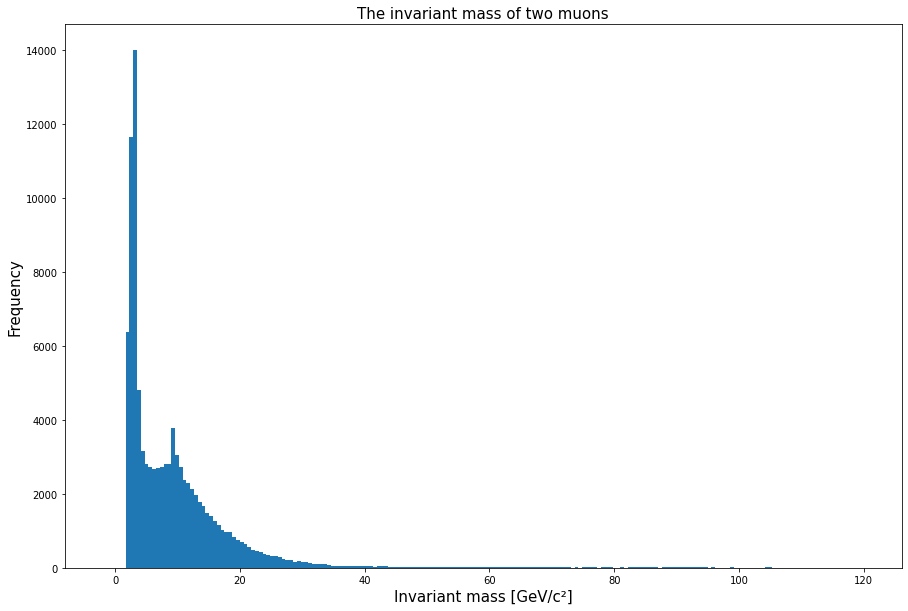
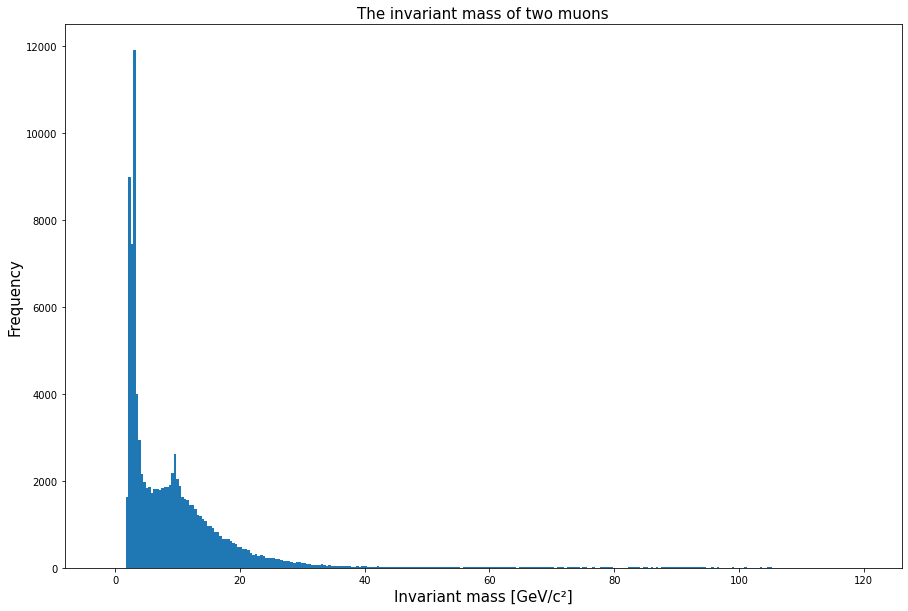
deploy: 91d72e60c85540d6cf45f04bfb287e71634b7067

diff --git a/searchindex.js b/searchindex.js
@@ -1,1 +1,1 @@
-Search.setIndex({docnames:["exercises/Hunting-the-Higgs-4leptons","exercises/jupyter-notebook-tutorial","exercises/teacher-workshop","intro"],envversion:{"sphinx.domains.c":2,"sphinx.domains.changeset":1,"sphinx.domains.citation":1,"sphinx.domains.cpp":5,"sphinx.domains.index":1,"sphinx.domains.javascript":2,"sphinx.domains.math":2,"sphinx.domains.python":3,"sphinx.domains.rst":2,"sphinx.domains.std":2,"sphinx.ext.intersphinx":1,sphinx:56},filenames:["exercises/Hunting-the-Higgs-4leptons.ipynb","exercises/jupyter-notebook-tutorial.ipynb","exercises/teacher-workshop.md","intro.md"],objects:{},objnames:{},objtypes:{},terms:{"0":[0,1],"00":1,"000501845":0,"000546162":0,"000590479":0,"000797085":0,"000885718":0,"00122527":0,"00340992":0,"00358719":0,"00419265":0,"00450225":0,"00465086":0,"00630364":0,"00794274":0,"0080008":0,"00801578":0,"00808944":0,"00950757":0,"01":1,"0108945":0,"01250":0,"0130648":0,"0138906":0,"0139526":0,"0163568":0,"0178":0,"02":1,"02072":0,"02085":1,"02240":1,"0233832":0,"024390":1,"0247":0,"0284":0,"028600":1,"032018":1,"032390":1,"0334813":0,"033950":1,"03502":1,"0374193":0,"0427229":0,"048740":0,"05":[0,1],"053890":1,"05681":0,"0598":0,"060420":1,"060690":1,"06454":0,"065820":1,"0677":0,"06840":0,"07049":1,"0738129":0,"07882":0,"08":1,"0804":0,"08338":1,"0837":0,"09095":1,"09128":1,"09683":0,"0987":0,"09888":0,"1":0,"10":[0,1],"100000":1,"1018":0,"102":1,"1091":1,"10974":0,"11":[0,1],"110":0,"11094":1,"112739":0,"11413":1,"114902683":1,"119":0,"11929":1,"12":[0,1],"120":1,"122":1,"123":1,"124":1,"125":[0,1],"126":1,"13":[0,1],"130388":0,"130770":0,"13282":0,"13298":1,"13324":0,"134075":0,"1352":0,"1382":1,"1392":0,"14":0,"140640":1,"14080":0,"14400":0,"144435":1,"146510":1,"146511":1,"148624":1,"15":[0,1],"15066":1,"1510":0,"151330e":1,"15410":1,"155005":0,"16":[0,1],"16082":1,"1611":0,"162":0,"165":0,"166512":0,"167282":0,"17":[0,1],"17082":0,"171091":0,"17124":1,"17188":0,"172952":0,"173657":0,"176830":1,"177398":0,"18":[0,1],"181":0,"181215":0,"187670":1,"1877":0,"189034":1,"19":0,"19117":1,"19304":0,"193263":0,"19704":1,"199319":1,"199699":1,"1_x":1,"1_y":1,"1_z":1,"2":[0,1],"20":[0,1],"200":1,"2006":1,"2011":0,"2012":0,"201602":1,"2017":0,"201850e":1,"202087":1,"203887":1,"203894":1,"2049":0,"20755":1,"209126492":1,"209181268":1,"209199660":1,"209209004":1,"209458092":1,"20978":0,"21":[0,1],"21620":0,"22":[0,1],"22007":0,"220450":1,"22260":1,"223630":0,"22890":0,"22967":1,"23":[0,1],"232":0,"234060":1,"235":0,"23602":1,"237880":1,"24":0,"2436":0,"245870e":1,"246340":1,"246510":1,"248771":1,"249320":1,"25":0,"250232":1,"250438":1,"25341481":1,"25343052":1,"25390065":1,"25391068":1,"25489877":1,"256384":0,"257161":0,"26":0,"2600":0,"261020":1,"26420":1,"26690":1,"267800":1,"27":0,"27240":0,"273271":1,"27430":0,"27485":1,"276090":0,"276360":1,"276874":1,"27942":0,"28":0,"28190":0,"2866":0,"28931":1,"28995":1,"29":[0,1],"2900":0,"29029":0,"29110":1,"29272":1,"29421":1,"294760":1,"29831":0,"2_x":1,"2_y":1,"2_z":1,"2e2mu_2011":0,"2e2mu_2012":0,"3":0,"30":0,"300":1,"30081":0,"303":1,"305880":0,"30672":0,"306925":0,"3075":0,"31":[0,1],"31050":0,"31349":1,"31402":0,"31425":0,"314620":1,"3154":0,"316533":0,"3199":0,"32":0,"320370":0,"3208":0,"32171":1,"32840":0,"32913":0,"33":0,"33390":1,"33410":0,"33412":1,"33561":0,"336259924":1,"337493970":0,"339000":1,"34442568":0,"344530":1,"34670":0,"34856":0,"34910":0,"35":0,"3524":0,"352990":1,"3541":0,"35470":0,"354797":0,"35650":0,"358470":0,"35900":1,"36":0,"360030":1,"362599e":1,"36442":0,"36681":0,"36750":0,"37":0,"3758":0,"381397":1,"3858":0,"38618":0,"3874":0,"38742":0,"38757":0,"3881":0,"39":0,"39050":1,"390686":1,"39256":0,"394420":0,"39538":1,"399700":1,"4":0,"40":1,"407975":0,"408010":1,"4088":0,"410910e":1,"414110":1,"41465":0,"41572":0,"418519":0,"41922":0,"42070":0,"425020":1,"42899":0,"43":0,"430085":1,"4314":1,"43168e":0,"4333":0,"43461":1,"43472":0,"44":1,"4409":1,"44166176":0,"444405":1,"44846":0,"45":[0,1],"450186":0,"45026":0,"4510":0,"45141":0,"4517":0,"45350":1,"456026":1,"459977":1,"46":1,"46080":1,"462830":1,"463510":0,"464500":1,"46530":0,"46720":1,"47328":0,"473667":1,"474752":0,"47860":1,"49":0,"49390":0,"4999":0,"4e_2011":0,"4e_2012":0,"4l":0,"4mu_2011":0,"4mu_2012":0,"5":[0,1],"50":0,"50412":0,"504613":0,"5056":0,"51":0,"51464":0,"51920":1,"52":0,"5205":0,"5209":1,"52260":1,"524410":1,"52511":1,"53":1,"53530":0,"538835":0,"53900":1,"54":0,"54130":1,"54593":1,"55":1,"5500":0,"550160":1,"5513":0,"559839432":0,"561945":1,"5720":0,"57354":0,"5743":0,"58":[0,1],"5813":0,"582250":1,"58321":0,"58406":1,"584812":1,"58568":1,"585680e":1,"586979":1,"58934":0,"59462":1,"6":[0,1],"60":1,"6038":1,"60481":0,"605505":1,"608720":1,"62":0,"622542":1,"62525":1,"6280":0,"63":0,"631640":1,"64":1,"64139":1,"641436592":1,"642300":1,"64276":0,"64596":0,"646050":1,"646960":1,"648352":0,"64960":1,"650821":1,"65464":0,"65745":1,"6628":0,"665790":1,"667150":0,"67":0,"67359":1,"67407":1,"67420":1,"676920":0,"678600":1,"68":0,"683619":0,"685250":1,"68620":1,"688901524":1,"69":0,"69105221":0,"691479":1,"6940":1,"698872":1,"7":[0,1],"70":0,"70222":1,"70372":1,"704971":1,"709440":0,"709665":1,"7100":0,"71127":1,"71292":1,"71436":1,"71517":0,"715610":0,"71670":1,"72":0,"72188":1,"72383":0,"727298":0,"72950":1,"73":1,"7350":0,"736670e":1,"739009":1,"740312":1,"7413":0,"7483":0,"7489":1,"749418":1,"751290":1,"7513":0,"7552":0,"76":1,"76010":0,"7605":0,"761387":1,"7631":0,"767963":0,"7696":0,"77":1,"7726":0,"77350":1,"776915":1,"778710":1,"780600":0,"78208":1,"79":0,"79377":0,"797901":1,"8":[0,1],"800788":1,"80272":0,"805550":1,"815133":1,"815527":1,"81797":0,"81862":1,"81952":1,"81970":0,"819760":1,"8214":0,"82820":1,"830071":0,"83630":0,"83735":0,"8382":0,"83870":0,"839775":0,"8417":0,"85":0,"85313":0,"85330":0,"85760":0,"85836":1,"86":0,"860380e":1,"86337e":0,"864420":1,"86520":0,"86720":1,"869450":1,"87":0,"87010":0,"87193":0,"873040":0,"873400":1,"87824":0,"88":0,"8800":0,"885440":1,"88580":1,"887188":0,"8875":0,"888141":1,"88830":1,"88960":1,"89":0,"899132":1,"9":[0,1],"90":0,"90202":1,"9087":0,"91":0,"914730":1,"9170":0,"917130":1,"918146":0,"91832":1,"92":0,"923352992":1,"9290":0,"9369":1,"93837":0,"94041":1,"94072":1,"94400":0,"944299":0,"945537":1,"948222":0,"94839":1,"95083":0,"9550":1,"95770":1,"966510":0,"967021":0,"9677":0,"97":0,"971505":0,"9750":0,"9753":0,"97880":1,"979340":0,"979959":1,"9826":0,"98280":0,"98300":1,"98817":1,"989974":0,"991560":1,"994575":1,"996990e":1,"9978":0,"99995":1,"99996":1,"99997":1,"99998":1,"99999":1,"c\u00b2":1,"case":1,"default":3,"do":[0,1],"final":0,"function":1,"import":[0,1],"new":0,"short":1,"try":[0,1],A:1,As:[0,1],For:0,If:[0,1,3],In:1,It:0,On:1,The:[0,1],There:0,These:1,abbrev:1,about:0,abov:1,acceler:0,accord:0,achim:0,activ:0,actual:0,adapt:0,add:0,afiq:0,after:1,again:[0,1],aizuddin:0,align:0,all:0,alpha:0,alreadi:[0,1],also:1,an:3,anaconda:1,analysi:[0,1],analyz:1,answer:1,anti:0,anuar:0,anyth:[0,1],api:1,appear:1,ar:[0,1],area:0,aris:0,around:0,arr1:1,arr2:1,arrai:[0,1],assumpt:0,avail:0,ax:1,b:0,background:0,bar:0,base:[0,3],basic:0,been:[0,1],befor:1,begin:1,below:[1,3],better:1,between:1,bigger:1,bin:[0,1],black:0,bonu:0,boson:0,bottom:0,bracket:1,bring:0,browser:1,button:1,call:1,can:[0,1,3],carlo:0,center:0,cern:[0,1],certain:0,certainli:0,ch:[0,1],challeng:1,chang:1,check:1,checkpoint:1,choos:3,chose:1,clash:0,clearli:0,clever:0,click:[1,3],cm:0,code:0,collect:1,color:0,column:1,com:0,come:[0,1],comma:1,command:1,comment:1,common:0,compar:0,comparison:0,complex:1,compris:0,comput:1,concat:0,confirm:0,consist:1,contain:[0,1,3],content:[0,3],continu:[0,1],contribut:0,control:1,corner:3,correl:0,could:0,cours:0,creat:0,criteria:1,cross:0,csv:[0,1],cycl:0,dame:0,data:[0,3],data_bar:0,decai:0,defin:1,delet:1,determin:1,did:1,differ:[0,1],dimuon:1,diphoton:1,directli:1,discov:0,displai:[0,3],distribut:0,document:1,doe:0,doesn:1,doi:0,domin:0,don:1,done:0,dormant:1,doubl:1,down:1,download:1,drop:1,dtype:1,dy:0,dy_bar:0,e1:[0,1],e2:[0,1],e3:0,e4:0,e:1,e_1:1,e_2:1,each:1,earlier:1,easi:1,edgecolor:0,edit:1,educ:0,effici:1,electron:0,element:1,elus:0,en_phys:0,end:0,enlighten:0,enter:1,entir:0,errorbar:0,eta1:[0,1],eta2:[0,1],eta3:0,eta4:0,etc:[0,1],event:[0,1],everi:1,everyth:1,exampl:1,exclud:1,execut:1,exercis:3,exist:0,expect:0,experi:0,expir:1,explain:0,explor:0,extra:1,fairli:0,far:0,fb:0,fig:1,figsiz:[0,1],figur:[0,1],file:1,find:1,first:[0,1],five:1,float64:1,follow:[0,1,3],fontsiz:[0,1],forc:0,form:1,found:[0,3],four:0,fourlep:0,frequenc:1,from:[0,3],further:0,g:[0,1],gamma:0,geiser:0,get:0,gev:[0,1],gg:1,githubusercont:0,give:[0,1],given:1,go:[0,1],goe:1,good:1,grai:0,graph:0,great:1,gt:1,guess:0,guid:0,h:0,ha:[0,1],had:[0,1],half:0,happen:[0,1],have:[0,1],head:[0,1],heavier:0,hei:1,helsinki:0,here:0,highlight:1,hist:[0,1],histogram:0,how:[0,1],html:1,http:[0,1],hzz:0,hzz_bar:0,i:0,imag:[1,3],includ:1,inform:0,inlin:0,insid:1,instal:1,instead:0,institut:0,instruct:[1,3],interact:1,interest:1,internet:1,invari:[0,1],invariant_mass:1,involv:0,irreduc:0,its:1,jkb8:0,jomhari:0,just:[0,1],kind:0,know:1,l:0,label:0,later:0,learn:1,left:[1,3],legend:0,length:0,lepton:0,let:[0,1],like:0,line:[0,1],linestyl:0,linewidth:0,link:1,loc:1,local:1,log:1,look:[0,1],lot:0,luminos:0,m:[0,1],m_:0,m_hist:0,mac:1,made:0,main:0,mainli:0,make:[0,1],mani:0,markdown:1,marker:0,mass:[0,1],mass_squar:1,mass_squared_po:1,materi:3,mathemat:1,matplotlib:[0,1],matric:1,matrix:1,max_column:0,mccaulei:0,mean:1,meaning:0,measur:0,menu:1,method:[0,1],might:[0,3],minut:[1,3],mode:3,model:0,modifi:3,modul:1,mont:0,more:0,most:[0,1],move:1,much:0,muon:[0,1],must:1,mz1:0,mz2:0,n:0,name:1,navig:1,nbin:0,need:1,newli:1,nice:1,nobel:0,nois:0,none:0,note:[1,3],notebook:0,notr:0,now:[0,1,3],np:[0,1],number:[0,1],numer:[0,1],numpi:[0,1],nur:0,o:0,observ:0,occas:1,off:0,often:1,onc:1,one:[0,1],ones:0,onli:[0,1],open:[0,3],opendata:[0,1],option:0,order:1,org:1,origin:0,other:0,ought:0,our:[0,1],ourselv:1,out:1,over:0,own:1,p_1:1,p_2:1,p_:1,packag:1,page:3,pair:0,panda:[0,1],particl:[0,1,3],pd:[0,1],peitsa:0,perhap:0,phi1:[0,1],phi2:[0,1],phi3:0,phi4:0,physic:[0,3],physicist:0,pid1:0,pid2:0,pid3:0,pid4:0,platform:1,plt:[0,1],point:0,portal:0,practic:1,precis:0,present:0,pretti:0,previou:0,print:1,prize:0,process:[0,1],produc:0,program:1,progress:1,properti:0,pt1:[0,1],pt2:[0,1],pt3:0,pt4:0,publicli:0,purpos:0,px1:[0,1],px2:[0,1],px3:0,px4:0,py1:[0,1],py2:[0,1],py3:0,py4:0,pyplot:[0,1],pyplot_api:1,pz1:[0,1],pz2:[0,1],pz3:0,pz4:0,q1:[0,1],q2:[0,1],q3:0,q4:0,quark:0,question:0,quit:0,r:0,ran:1,random:0,rang:[0,1],raw:0,re:1,read_csv:[0,1],readi:0,real:[0,1],record:[0,1],regard:0,region:0,relat:3,rememb:1,requir:0,restart:1,result:[0,1],review:1,right:3,rightarrow:0,rmax:0,rmin:0,rocket:3,root:1,rough:0,roughli:0,row:1,rr42:0,run:[0,1],s:[0,1],sai:0,sake:0,sampl:0,save:1,scale:1,scienc:0,search:0,second:1,section:0,see:[0,1,3],seem:0,select:1,sens:[0,1],separ:1,serv:0,session:1,set:[0,1],sever:3,shape:0,shortcut:1,should:[0,1],show:[0,1],shown:0,side:[1,3],sift:0,sign:1,simpli:0,simul:0,sinc:1,singular:0,site:3,small:0,so:[0,1],some:0,someth:0,somewhat:0,sophist:0,sorri:1,space:3,specif:1,sqrt:[0,1],squar:1,stack:0,standard:0,state:0,still:[0,1],student:1,t:[0,1],tabl:3,take:[0,1,3],teach:3,tell:[0,1],ten:1,tev:0,thei:0,them:[0,1],theoret:0,theori:0,thi:[0,3],those:0,through:0,time:[0,1],titl:[0,1],togeth:0,tom:0,too:0,tool:1,toolbar:1,top:[0,1,3],ttbar:0,ttbar_bar:0,two:[0,1],two_muon:1,type:1,unfinish:1,uniqu:1,univers:0,up:[0,1],us:[0,1,3],valu:[0,1],vari:0,vector:1,vector_sum:1,veri:[0,1],vete:0,via:0,virtual:1,w:0,wa:0,wai:[0,1],want:1,we:[0,1],weight:0,well:0,what:0,when:[1,3],where:1,whether:1,which:[0,1],width:0,window:1,wish:3,work:[0,1],would:0,write:1,x:0,xerr:0,xlabel:[0,1],xlim:0,yerr:0,ylabel:[0,1],ylim:0,you:[0,1,3],your:[0,1],your_valu:1,yourself:3,yscale:1,z:0,zulaiha:0,zz:0,zz_bar:0},titles:["Higgs hunting - an example of scientific research","What is the Jupyter Notebook?","CERN Teacher workshop","Welcome"],titleterms:{"1":1,"3":1,"4":1,"new":1,ad:1,add:1,addit:1,an:[0,1],anoth:1,arbitrari:1,b:1,binder:3,calcul:1,cell:1,cern:2,choos:1,cm:1,code:1,data:1,dataset:1,describ:1,exampl:0,exercis:1,experi:1,from:1,higg:0,histogram:1,hunt:0,jupyt:1,launch:3,librari:1,materi:1,modifi:1,notebook:[1,3],open:1,plot:1,python:1,read:1,research:0,scientif:0,sentenc:1,similar:1,sum:1,teacher:2,text:1,thi:1,todai:1,variabl:1,weather:1,welcom:3,what:1,workshop:2}})
+Search.setIndex({docnames:["exercises/Hunting-the-Higgs-4leptons","exercises/jupyter-notebook-tutorial","exercises/teacher-workshop","intro"],envversion:{"sphinx.domains.c":2,"sphinx.domains.changeset":1,"sphinx.domains.citation":1,"sphinx.domains.cpp":5,"sphinx.domains.index":1,"sphinx.domains.javascript":2,"sphinx.domains.math":2,"sphinx.domains.python":3,"sphinx.domains.rst":2,"sphinx.domains.std":2,"sphinx.ext.intersphinx":1,sphinx:56},filenames:["exercises/Hunting-the-Higgs-4leptons.ipynb","exercises/jupyter-notebook-tutorial.ipynb","exercises/teacher-workshop.md","intro.md"],objects:{},objnames:{},objtypes:{},terms:{"0":[0,1],"00":1,"000501845":0,"000546162":0,"000590479":0,"000797085":0,"000885718":0,"00122527":0,"00340992":0,"00358719":0,"00419265":0,"00450225":0,"00465086":0,"00630364":0,"00794274":0,"0080008":0,"00801578":0,"00808944":0,"00950757":0,"01":1,"0108945":0,"01250":0,"0130648":0,"0138906":0,"0139526":0,"0163568":0,"0178":0,"02":1,"02072":0,"0233832":0,"02439":1,"0247":0,"0284":0,"032018":1,"032390":1,"0334813":0,"033950":1,"03502":1,"0374193":0,"0427229":0,"048740":0,"05":[0,1],"05681":0,"0598":0,"060420":1,"06069":1,"06454":0,"065820":1,"0677":0,"06840":0,"0738129":0,"07882":0,"08":1,"0804":0,"08338":1,"0837":0,"09095":1,"09683":0,"0987":0,"09888":0,"1":0,"10":[0,1],"1018":0,"102":1,"1091":1,"10974":0,"11":[0,1],"110":0,"112739":0,"114902683":1,"119":0,"11929":1,"12":[0,1],"120":1,"122":1,"123":1,"124":1,"125":[0,1],"126":1,"13":[0,1],"130388":0,"130770":0,"13282":0,"13324":0,"134075":0,"1352":0,"1382":1,"1392":0,"14":0,"14080":0,"14400":0,"144435":1,"146511":1,"148624":1,"15":[0,1],"1510":0,"151330e":1,"15410":1,"155005":0,"16":[0,1],"16082":1,"1611":0,"162":0,"165":0,"166512":0,"167282":0,"17":0,"17082":0,"171091":0,"17188":0,"172952":0,"173657":0,"177398":0,"18":[0,1],"181":0,"181215":0,"1877":0,"19":0,"19304":0,"193263":0,"19704":1,"199319":1,"199699":1,"1_x":1,"1_y":1,"1_z":1,"2":0,"20":[0,1],"2006":1,"2011":0,"2012":0,"201602":1,"2017":0,"201850e":1,"202087":1,"203887":1,"203894":1,"2049":0,"20755":1,"20978":0,"21":[0,1],"21620":0,"22":0,"22007":0,"223630":0,"22890":0,"23":[0,1],"232":0,"234060":1,"235":0,"23602":1,"24":0,"2436":0,"245870e":1,"246340":1,"246510":1,"248771":1,"249320":1,"25":0,"250438":1,"25341481":1,"25343052":1,"25390065":1,"25391068":1,"25489877":1,"256384":0,"257161":0,"26":0,"2600":0,"261020":1,"27":0,"27240":0,"273271":1,"27430":0,"27485":1,"276090":0,"276360":1,"276874":1,"27942":0,"28":0,"28190":0,"2866":0,"28931":1,"29":0,"2900":0,"29029":0,"29476":1,"29831":0,"2_x":1,"2_y":1,"2_z":1,"2e2mu_2011":0,"2e2mu_2012":0,"3":0,"30":0,"300":1,"30081":0,"303":1,"305880":0,"30672":0,"306925":0,"3075":0,"31":0,"31050":0,"31349":1,"31402":0,"31425":0,"314620":1,"3154":0,"316533":0,"3199":0,"32":0,"320370":0,"3208":0,"32840":0,"32913":0,"33":0,"33390":1,"33410":0,"33561":0,"336259924":1,"337493970":0,"34442568":0,"34670":0,"34856":0,"34910":0,"35":0,"3524":0,"352990":1,"3541":0,"35470":0,"354797":0,"35650":0,"358470":0,"35900":1,"36":0,"362599e":1,"36442":0,"36681":0,"36750":0,"37":0,"3758":0,"381397":1,"3858":0,"38618":0,"3874":0,"38742":0,"38757":0,"3881":0,"39":0,"39050":1,"390686":1,"39256":0,"394420":0,"4":0,"40":1,"407975":0,"408010":1,"4088":0,"410910e":1,"414110":1,"41465":0,"41572":0,"418519":0,"41922":0,"42070":0,"425020":1,"42899":0,"43":0,"4314":1,"43168e":0,"4333":0,"43461":1,"43472":0,"44":1,"4409":1,"44166176":0,"444405":1,"44846":0,"45":[0,1],"450186":0,"45026":0,"4510":0,"45141":0,"4517":0,"456026":1,"459977":1,"46":1,"462830":1,"463510":0,"46530":0,"46720":1,"47328":0,"473667":1,"474752":0,"49":0,"49390":0,"4999":0,"4e_2011":0,"4e_2012":0,"4l":0,"4mu_2011":0,"4mu_2012":0,"5":[0,1],"50":0,"50412":0,"504613":0,"5056":0,"51":0,"51464":0,"51920":1,"52":0,"5205":0,"5209":1,"52260":1,"524410":1,"52511":1,"53":1,"53530":0,"538835":0,"53900":1,"54":0,"55":1,"5500":0,"55016":1,"5513":0,"559839432":0,"561945":1,"5720":0,"57354":0,"5743":0,"58":[0,1],"5813":0,"582250":1,"58321":0,"58406":1,"584812":1,"58568":1,"585680e":1,"586979":1,"58934":0,"59462":1,"6":[0,1],"60":1,"6038":1,"60481":0,"605505":1,"62":0,"622542":1,"62525":1,"6280":0,"63":0,"631640":1,"64":1,"641436592":1,"642300":1,"64276":0,"64596":0,"64696":1,"648352":0,"650821":1,"65464":0,"65745":1,"6628":0,"667150":0,"67":0,"67359":1,"67407":1,"676920":0,"68":0,"683619":0,"688901524":1,"69":0,"69105221":0,"691479":1,"6940":1,"698872":1,"7":[0,1],"70":0,"70222":1,"704971":1,"709440":0,"709665":1,"7100":0,"71127":1,"71517":0,"715610":0,"71670":1,"72":0,"72383":0,"727298":0,"72950":1,"73":1,"7350":0,"736670e":1,"7413":0,"7483":0,"7489":1,"751290":1,"7513":0,"7552":0,"76":1,"76010":0,"7605":0,"7631":0,"767963":0,"7696":0,"77":1,"7726":0,"77350":1,"776915":1,"780600":0,"78208":1,"79":0,"79377":0,"797901":1,"8":[0,1],"800788":1,"80272":0,"815133":1,"815527":1,"81797":0,"81862":1,"81970":0,"819760":1,"8214":0,"82820":1,"830071":0,"83630":0,"83735":0,"8382":0,"83870":0,"839775":0,"8417":0,"85":0,"85313":0,"85330":0,"85760":0,"85836":1,"86":0,"860380e":1,"86337e":0,"864420":1,"86520":0,"87":0,"87010":0,"87193":0,"873040":0,"87824":0,"88":0,"8800":0,"88580":1,"887188":0,"8875":0,"88830":1,"89":0,"899132":1,"9":[0,1],"90":0,"90202":1,"9087":0,"91":0,"9170":0,"918146":0,"92":0,"923352992":1,"9290":0,"9369":1,"93837":0,"94041":1,"94072":1,"94400":0,"944299":0,"945537":1,"948222":0,"94839":1,"95083":0,"9550":1,"95770":1,"966510":0,"967021":0,"9677":0,"97":0,"971505":0,"9750":0,"9753":0,"979340":0,"979959":1,"9826":0,"98280":0,"98300":1,"989974":0,"996990e":1,"9978":0,"c\u00b2":1,"case":1,"default":3,"do":[0,1],"final":0,"function":1,"import":[0,1],"new":0,"short":1,"try":[0,1],A:1,As:[0,1],For:0,If:[0,1,3],In:1,It:0,On:1,The:[0,1],There:0,These:1,abbrev:1,about:0,abov:1,acceler:0,accord:0,achim:0,activ:0,actual:0,adapt:0,add:0,afiq:0,after:1,again:[0,1],aizuddin:0,align:0,all:0,alpha:0,alreadi:[0,1],also:1,an:3,anaconda:1,analysi:[0,1],analyz:1,answer:1,anti:0,anuar:0,anyth:[0,1],api:1,appear:1,ar:[0,1],area:0,aris:0,around:0,arr1:1,arr2:1,arrai:[0,1],assumpt:0,avail:0,ax:1,b:0,background:0,bar:0,base:[0,3],basic:0,been:[0,1],befor:1,begin:1,below:[1,3],better:1,between:1,bigger:1,bin:[0,1],black:0,bonu:0,boson:0,bottom:0,bracket:1,bring:0,browser:1,button:1,call:1,can:[0,1,3],carlo:0,center:0,cern:[0,1],certain:0,certainli:0,ch:[0,1],challeng:1,chang:1,check:1,checkpoint:1,choos:3,chose:1,clash:0,clearli:0,clever:0,click:[1,3],cm:0,code:0,collect:1,color:0,column:1,com:0,come:[0,1],comma:1,command:1,comment:1,common:0,compar:0,comparison:0,complex:1,compris:0,comput:1,concat:0,confirm:0,consist:1,contain:[0,1,3],content:[0,3],continu:[0,1],contribut:0,control:1,corner:3,correl:0,could:0,cours:0,creat:0,criteria:1,cross:0,csv:[0,1],cycl:0,dame:0,data:[0,3],data_bar:0,decai:0,defin:1,delet:1,determin:1,did:1,differ:[0,1],dimuon:1,diphoton:1,directli:1,discov:0,displai:[0,3],distribut:0,document:1,doe:0,doesn:1,doi:0,domin:0,don:1,done:0,dormant:1,doubl:1,down:1,download:1,drop:1,dtype:1,dy:0,dy_bar:0,e1:[0,1],e2:[0,1],e3:0,e4:0,e:1,e_1:1,e_2:1,each:1,earlier:1,easi:1,edgecolor:0,edit:1,educ:0,effici:1,electron:0,element:1,elus:0,en_phys:0,end:0,enlighten:0,enter:1,entir:0,errorbar:0,eta1:[0,1],eta2:[0,1],eta3:0,eta4:0,etc:[0,1],event:[0,1],everi:1,everyth:1,exampl:1,exclud:1,execut:1,exercis:3,exist:0,expect:0,experi:0,expir:1,explain:0,explor:0,extra:1,fairli:0,far:0,fb:0,fig:1,figsiz:[0,1],figur:[0,1],file:1,find:1,first:[0,1],five:1,float64:1,follow:[0,1,3],fontsiz:[0,1],forc:0,form:1,found:[0,3],four:0,fourlep:0,frequenc:1,from:[0,3],further:0,g:[0,1],gamma:0,geiser:0,get:0,gev:[0,1],gg:1,githubusercont:0,give:[0,1],given:1,go:[0,1],goe:1,good:1,grai:0,graph:0,great:1,gt:1,guess:0,guid:0,h:0,ha:[0,1],had:[0,1],half:0,happen:[0,1],have:[0,1],head:[0,1],heavier:0,hei:1,helsinki:0,here:0,highlight:1,hist:[0,1],histogram:0,how:[0,1],html:1,http:[0,1],hzz:0,hzz_bar:0,i:0,imag:[1,3],includ:1,inform:0,inlin:0,insid:1,instal:1,instead:0,institut:0,instruct:[1,3],interact:1,interest:1,internet:1,invari:[0,1],invariant_mass:1,involv:0,irreduc:0,its:1,jkb8:0,jomhari:0,just:[0,1],kind:0,know:1,l:0,label:0,later:0,learn:1,left:[1,3],legend:0,length:0,lepton:0,let:[0,1],like:0,line:[0,1],linestyl:0,linewidth:0,link:1,loc:1,local:1,log:1,look:[0,1],lot:0,luminos:0,m:[0,1],m_:0,m_hist:0,mac:1,made:0,main:0,mainli:0,make:[0,1],mani:0,markdown:1,marker:0,mass:[0,1],mass_squar:1,mass_squared_po:1,materi:3,mathemat:1,matplotlib:[0,1],matric:1,matrix:1,max_column:0,mccaulei:0,mean:1,meaning:0,measur:0,menu:1,method:[0,1],might:[0,3],minut:[1,3],mode:3,model:0,modifi:3,modul:1,mont:0,more:0,most:[0,1],move:1,much:0,muon:[0,1],must:1,mz1:0,mz2:0,n:0,name:1,navig:1,nbin:0,need:1,newli:1,nice:1,nobel:0,nois:0,none:0,note:[1,3],notebook:0,notr:0,now:[0,1,3],np:[0,1],number:[0,1],numer:[0,1],numpi:[0,1],nur:0,o:0,observ:0,occas:1,off:0,often:1,onc:1,one:[0,1],ones:0,onli:[0,1],open:[0,3],opendata:[0,1],option:0,order:1,org:1,origin:0,other:0,ought:0,our:[0,1],ourselv:1,out:1,over:0,own:1,p_1:1,p_2:1,p_:1,packag:1,page:3,pair:0,panda:[0,1],particl:[0,1,3],pd:[0,1],peitsa:0,perhap:0,phi1:[0,1],phi2:[0,1],phi3:0,phi4:0,physic:[0,3],physicist:0,pid1:0,pid2:0,pid3:0,pid4:0,platform:1,plt:[0,1],point:0,portal:0,practic:1,precis:0,present:0,pretti:0,previou:0,print:1,prize:0,process:[0,1],produc:0,program:1,progress:1,properti:0,pt1:[0,1],pt2:[0,1],pt3:0,pt4:0,publicli:0,purpos:0,px1:[0,1],px2:[0,1],px3:0,px4:0,py1:[0,1],py2:[0,1],py3:0,py4:0,pyplot:[0,1],pyplot_api:1,pz1:[0,1],pz2:[0,1],pz3:0,pz4:0,q1:[0,1],q2:[0,1],q3:0,q4:0,quark:0,question:0,quit:0,r:0,ran:1,random:0,rang:[0,1],raw:0,re:1,read_csv:[0,1],readi:0,real:[0,1],record:[0,1],regard:0,region:0,relat:3,rememb:1,requir:0,restart:1,result:[0,1],review:1,right:3,rightarrow:0,rmax:0,rmin:0,rocket:3,root:1,rough:0,roughli:0,row:1,rr42:0,run:[0,1],s:[0,1],sai:0,sake:0,sampl:0,save:1,scale:1,scienc:0,search:0,second:1,section:0,see:[0,1,3],seem:0,select:1,sens:[0,1],separ:1,serv:0,session:1,set:[0,1],sever:3,shape:0,shortcut:1,should:[0,1],show:[0,1],shown:0,side:[1,3],sift:0,sign:1,simpli:0,simul:0,sinc:1,singular:0,site:3,small:0,so:[0,1],some:0,someth:0,somewhat:0,sophist:0,sorri:1,space:3,specif:1,sqrt:[0,1],squar:1,stack:0,standard:0,state:0,still:[0,1],student:1,t:[0,1],tabl:3,take:[0,1,3],teach:3,tell:[0,1],ten:1,tev:0,thei:0,them:[0,1],theoret:0,theori:0,thi:[0,3],those:0,through:0,time:[0,1],titl:[0,1],togeth:0,tom:0,too:0,tool:1,toolbar:1,top:[0,1,3],ttbar:0,ttbar_bar:0,two:[0,1],two_muon:1,type:1,unfinish:1,uniqu:1,univers:0,up:[0,1],us:[0,1,3],valu:[0,1],vari:0,vector:1,vector_sum:1,veri:[0,1],vete:0,via:0,virtual:1,w:0,wa:0,wai:[0,1],want:1,we:[0,1],weight:0,well:0,what:0,when:[1,3],where:1,whether:1,which:[0,1],width:0,window:1,wish:3,work:[0,1],would:0,write:1,x:0,xerr:0,xlabel:[0,1],xlim:0,yerr:0,ylabel:[0,1],ylim:0,you:[0,1,3],your:[0,1],your_valu:1,yourself:3,yscale:1,z:0,zulaiha:0,zz:0,zz_bar:0},titles:["Higgs hunting - an example of scientific research","What is the Jupyter Notebook?","CERN Teacher workshop","Welcome"],titleterms:{"1":1,"2":1,"3":1,"4":1,"new":1,ad:1,add:1,addit:1,an:[0,1],anoth:1,arbitrari:1,b:1,binder:3,calcul:1,cell:1,cern:2,choos:1,cm:1,code:1,data:1,dataset:1,describ:1,exampl:0,exercis:1,experi:1,from:1,higg:0,histogram:1,hunt:0,jupyt:1,launch:3,librari:1,materi:1,modifi:1,notebook:[1,3],open:1,plot:1,python:1,read:1,research:0,scientif:0,sentenc:1,similar:1,sum:1,teacher:2,text:1,thi:1,todai:1,variabl:1,weather:1,welcom:3,what:1,workshop:2}})

diff --git a/exercises/jupyter-notebook-tutorial.html b/exercises/jupyter-notebook-tutorial.html
@@ -381,7 +381,7 @@ title="Print to PDF"
  </li>
  <li class="toc-h2 nav-item toc-entry">
   <a class="reference internal nav-link" href="#reading-data">
-   Reading data
+   2. Reading data
   </a>
   <ul class="nav section-nav flex-column">
    <li class="toc-h3 nav-item toc-entry">
@@ -444,7 +444,7 @@ title="Print to PDF"
  </li>
  <li class="toc-h2 nav-item toc-entry">
   <a class="reference internal nav-link" href="#reading-data">
-   Reading data
+   2. Reading data
   </a>
   <ul class="nav section-nav flex-column">
    <li class="toc-h3 nav-item toc-entry">
@@ -609,7 +609,7 @@ Vector sums:  [[12 13]
 </div>
 </section>
 <section id="reading-data">
-<h2>Reading data<a class="headerlink" href="#reading-data" title="Permalink to this headline">#</a></h2>
+<h2>2. Reading data<a class="headerlink" href="#reading-data" title="Permalink to this headline">#</a></h2>
 <p>You can import a dataset into a notebook with an open link. In order to read datasets we need the library pandas and the <strong>read_csv()</strong>-method. The CSV (comma-separated values) file type is a useful way for saving data into a text file. Using the <strong>head()</strong>-method we can look at the first five lines of the dataset.</p>
 <p>Let’s try this with <a class="reference external" href="http://opendata.cern.ch/">open data</a> from the CMS experiment at CERN.</p>
 <div class="cell docutils container">
@@ -772,7 +772,7 @@ Name: 1, dtype: float64
 <div class="cell docutils container">
 <div class="cell_input docutils container">
 <div class="highlight-ipython3 notranslate"><div class="highlight"><pre><span></span><span class="n">two_muons</span> <span class="o">=</span> <span class="n">pd</span><span class="o">.</span><span class="n">read_csv</span><span class="p">(</span><span class="s2">&quot;http://opendata.cern.ch/record/303/files/dimuon.csv&quot;</span><span class="p">)</span>
-<span class="n">two_muons</span>
+<span class="n">two_muons</span><span class="o">.</span><span class="n">head</span><span class="p">()</span>
 </pre></div>
 </div>
 </div>
@@ -832,7 +832,7 @@ Name: 1, dtype: float64
       <td>1.234060</td>
       <td>-1</td>
       <td>5.20755</td>
-      <td>-1.550160</td>
+      <td>-1.55016</td>
       <td>-1.819760</td>
       <td>4.62525</td>
       <td>2.39050</td>
@@ -855,7 +855,7 @@ Name: 1, dtype: float64
       <td>-0.456026</td>
       <td>-1</td>
       <td>10.72950</td>
-      <td>6.294760</td>
+      <td>6.29476</td>
       <td>-2.524410</td>
       <td>-8.31349</td>
       <td>6.78208</td>
@@ -878,7 +878,7 @@ Name: 1, dtype: float64
       <td>1.631640</td>
       <td>-1</td>
       <td>6.90202</td>
-      <td>-3.024390</td>
+      <td>-3.02439</td>
       <td>3.751290</td>
       <td>4.94041</td>
       <td>4.81862</td>
@@ -901,7 +901,7 @@ Name: 1, dtype: float64
       <td>0.390686</td>
       <td>1</td>
       <td>7.43461</td>
-      <td>-5.060690</td>
+      <td>-5.06069</td>
       <td>4.408010</td>
       <td>3.19704</td>
       <td>6.71127</td>
@@ -924,7 +924,7 @@ Name: 1, dtype: float64
       <td>0.144435</td>
       <td>-1</td>
       <td>9.27485</td>
-      <td>-3.646960</td>
+      <td>-3.64696</td>
       <td>-0.276874</td>
       <td>8.52260</td>
       <td>3.65745</td>
@@ -933,147 +933,8 @@ Name: 1, dtype: float64
       <td>1</td>
       <td>40.98300</td>
     </tr>
-    <tr>
-      <th>...</th>
-      <td>...</td>
-      <td>...</td>
-      <td>...</td>
-      <td>...</td>
-      <td>...</td>
-      <td>...</td>
-      <td>...</td>
-      <td>...</td>
-      <td>...</td>
-      <td>...</td>
-      <td>...</td>
-      <td>...</td>
-      <td>...</td>
-      <td>...</td>
-      <td>...</td>
-      <td>...</td>
-      <td>...</td>
-      <td>...</td>
-      <td>...</td>
-      <td>...</td>
-    </tr>
-    <tr>
-      <th>99995</th>
-      <td>GG</td>
-      <td>146510</td>
-      <td>209126492</td>
-      <td>17.86720</td>
-      <td>-2.053890</td>
-      <td>2.70372</td>
-      <td>17.54130</td>
-      <td>3.39538</td>
-      <td>2.344530</td>
-      <td>2.220450</td>
-      <td>1</td>
-      <td>16.26420</td>
-      <td>-3.914730</td>
-      <td>-12.028600</td>
-      <td>10.22260</td>
-      <td>12.64960</td>
-      <td>0.739009</td>
-      <td>-1.885440</td>
-      <td>1</td>
-      <td>16.47860</td>
-    </tr>
-    <tr>
-      <th>99996</th>
-      <td>GT</td>
-      <td>146510</td>
-      <td>209181268</td>
-      <td>22.45350</td>
-      <td>2.991560</td>
-      <td>-12.67420</td>
-      <td>-18.29110</td>
-      <td>13.02240</td>
-      <td>-1.140640</td>
-      <td>-1.339000</td>
-      <td>1</td>
-      <td>4.71292</td>
-      <td>-0.250232</td>
-      <td>-2.176830</td>
-      <td>-4.17124</td>
-      <td>2.19117</td>
-      <td>-1.399700</td>
-      <td>-1.685250</td>
-      <td>-1</td>
-      <td>2.32171</td>
-    </tr>
-    <tr>
-      <th>99997</th>
-      <td>GT</td>
-      <td>146510</td>
-      <td>209199660</td>
-      <td>8.09128</td>
-      <td>-1.805550</td>
-      <td>-2.29272</td>
-      <td>-7.54593</td>
-      <td>2.91832</td>
-      <td>-1.678600</td>
-      <td>-2.237880</td>
-      <td>-1</td>
-      <td>4.33412</td>
-      <td>1.778710</td>
-      <td>-2.187670</td>
-      <td>-3.28995</td>
-      <td>2.81952</td>
-      <td>-0.994575</td>
-      <td>-0.888141</td>
-      <td>1</td>
-      <td>4.11094</td>
-    </tr>
-    <tr>
-      <th>99998</th>
-      <td>GT</td>
-      <td>146510</td>
-      <td>209209004</td>
-      <td>9.72188</td>
-      <td>4.608720</td>
-      <td>2.11413</td>
-      <td>-8.29421</td>
-      <td>5.07049</td>
-      <td>-1.267800</td>
-      <td>0.430085</td>
-      <td>1</td>
-      <td>5.13298</td>
-      <td>3.917130</td>
-      <td>0.749418</td>
-      <td>-3.22967</td>
-      <td>3.98817</td>
-      <td>-0.740312</td>
-      <td>0.189034</td>
-      <td>-1</td>
-      <td>2.64139</td>
-    </tr>
-    <tr>
-      <th>99999</th>
-      <td>GG</td>
-      <td>146510</td>
-      <td>209458092</td>
-      <td>31.97880</td>
-      <td>-11.464500</td>
-      <td>-3.15066</td>
-      <td>29.68620</td>
-      <td>11.88960</td>
-      <td>1.646050</td>
-      <td>-2.873400</td>
-      <td>-1</td>
-      <td>10.46080</td>
-      <td>-2.360030</td>
-      <td>7.665790</td>
-      <td>6.71436</td>
-      <td>8.02085</td>
-      <td>0.761387</td>
-      <td>1.869450</td>
-      <td>1</td>
-      <td>16.26690</td>
-    </tr>
   </tbody>
 </table>
-<p>100000 rows × 20 columns</p>
 </div></div></div>
 </div>
 <div class="cell docutils container">
@@ -1107,7 +968,7 @@ Name: 1, dtype: float64
 <h2>4. Additional material<a class="headerlink" href="#additional-material" title="Permalink to this headline">#</a></h2>
 <p>In the dataset we chose the invariant mass had already been calculated. Often we have to calculate the variable we are interested in ourselves. Let’s now try to calculate the invariant mass of two muons.</p>
 <p>The square of the invariant mass of two particles is given by
-$<span class="math notranslate nohighlight">\( M^2 = (E_1+E_2)^2-|| p_1+p_2 ||^2 = (E_1+E_2)^2-((p_{1_x}+p_{2_x})^2+(p_{1_y}+p_{2_y})^2+(p_{1_z}+p_{2_z})^2) \)</span>$</p>
+<span class="math notranslate nohighlight">\( M^2 = (E_1+E_2)^2-|| p_1+p_2 ||^2 = (E_1+E_2)^2-((p_{1_x}+p_{2_x})^2+(p_{1_y}+p_{2_y})^2+(p_{1_z}+p_{2_z})^2) \)</span></p>
 <p>Now we can calculate the invariant mass knowing that we can choose the variables by two_muons[‘E1’] etc. Remember that before every complex mathematical function you must define that it comes from the numpy package, which we imported and which we defined as np (e.g. np.sqrt(your_value)).</p>
 <p>As an extra challenge, note that it happens that one value of the newly computed invariant mass squared goes below 0 (sorry, this is real data) so we will have to exclude that from our set of values before taking the square root… not that nice but a good occasion to show how you can very efficiently set a selection criteria in a dataset with “pandas”</p>
 <div class="cell docutils container">
@@ -1121,7 +982,7 @@ $<span class="math notranslate nohighlight">\( M^2 = (E_1+E_2)^2-|| p_1+p_2 ||^2
 <div class="cell docutils container">
 <div class="cell_input docutils container">
 <div class="highlight-ipython3 notranslate"><div class="highlight"><pre><span></span><span class="n">fig</span> <span class="o">=</span> <span class="n">plt</span><span class="o">.</span><span class="n">figure</span><span class="p">(</span><span class="n">figsize</span><span class="o">=</span><span class="p">(</span><span class="mi">15</span><span class="p">,</span><span class="mi">10</span><span class="p">))</span>
-<span class="n">plt</span><span class="o">.</span><span class="n">hist</span><span class="p">(</span><span class="n">np</span><span class="o">.</span><span class="n">sqrt</span><span class="p">(</span><span class="n">mass_squared_pos</span><span class="p">),</span> <span class="n">bins</span><span class="o">=</span><span class="mi">200</span><span class="p">,</span> <span class="nb">range</span><span class="o">=</span><span class="p">[</span><span class="o">-</span><span class="mi">2</span><span class="p">,</span><span class="mi">120</span><span class="p">])</span>
+<span class="n">plt</span><span class="o">.</span><span class="n">hist</span><span class="p">(</span><span class="n">np</span><span class="o">.</span><span class="n">sqrt</span><span class="p">(</span><span class="n">mass_squared_pos</span><span class="p">),</span> <span class="n">bins</span><span class="o">=</span><span class="mi">300</span><span class="p">,</span> <span class="nb">range</span><span class="o">=</span><span class="p">[</span><span class="o">-</span><span class="mi">2</span><span class="p">,</span><span class="mi">120</span><span class="p">])</span>
 
 <span class="c1"># Name the axes and give the title</span>
 <span class="n">plt</span><span class="o">.</span><span class="n">xlabel</span><span class="p">(</span><span class="s1">&#39;Invariant mass [GeV/c²]&#39;</span><span class="p">,</span> <span class="n">fontsize</span><span class="o">=</span><span class="mi">15</span><span class="p">)</span>
